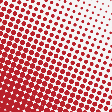
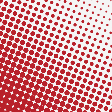
Keep dots intact and simplify pattern controls

diff --git a/test/studio-panel.test.js b/test/studio-panel.test.js
@@ -612,7 +612,7 @@ test("phone tabs keep one group visible and preserve controls across desktop res
   const folder = (name) => document.getElementById(`studio-section-${name}`).closest('.studio-folder');
   const panel = document.getElementById('dialPanelRoot');
   const actions = document.querySelector('.rail-actions');
-  const slider = folder('layout').querySelector('[role="slider"]');
+  const slider = folder('pattern').querySelector('[role="slider"]');
   assert.equal(nav.hidden, false);
   assert.equal(tabs[0].textContent, "Image");
   assert.equal(nav.style.getPropertyValue('--segment-index'), '0');
@@ -624,14 +624,14 @@ test("phone tabs keep one group visible and preserve controls across desktop res
   assert.equal(actions.hidden, true);
   tabs[1].click();
   assert.equal(folder('source').hidden, true);
-  for (const name of ['presets', 'layout', 'tone', 'advanced']) assert.equal(folder(name).hidden, false);
+  for (const name of ['presets', 'pattern', 'tone', 'advanced']) assert.equal(folder(name).hidden, false);
   const history = folder('presets').querySelector('[aria-label="Edit history"]');
   assert.ok(history);
   assert.equal(history.hidden, false);
   assert.equal(history.closest('[hidden]'), null);
   assert.ok(history.querySelector('[aria-label="Undo"]'));
   assert.ok(history.querySelector('[aria-label="Redo"]'));
-  for (const name of ['layout', 'tone', 'colors', 'advanced']) {
+  for (const name of ['pattern', 'tone', 'colors', 'advanced']) {
     const group = folder(name);
     const trigger = group.querySelector('button.dialkit-folder-header-top');
     const heading = group.querySelector('h2.studio-folder-static-heading');
@@ -654,16 +654,16 @@ test("phone tabs keep one group visible and preserve controls across desktop res
   assert.equal(nav.hidden, true);
   assert.equal(panel.hidden, false);
   assert.equal(actions.hidden, false);
-  for (const name of ['source', 'presets', 'layout', 'tone', 'colors', 'advanced']) assert.equal(folder(name).hidden, false);
-  assert.equal(folder('layout').dataset.phoneFlat, 'false');
-  assert.equal(folder('layout').querySelector('button.dialkit-folder-header-top').hidden, false);
-  assert.equal(folder('layout').querySelector('h2.studio-folder-static-heading').hidden, true);
-  assert.equal(folder('layout').querySelector('button.dialkit-folder-header-top').getAttribute('aria-expanded'), 'true');
+  for (const name of ['source', 'presets', 'pattern', 'tone', 'colors', 'advanced']) assert.equal(folder(name).hidden, false);
+  assert.equal(folder('pattern').dataset.phoneFlat, 'false');
+  assert.equal(folder('pattern').querySelector('button.dialkit-folder-header-top').hidden, false);
+  assert.equal(folder('pattern').querySelector('h2.studio-folder-static-heading').hidden, true);
+  assert.equal(folder('pattern').querySelector('button.dialkit-folder-header-top').getAttribute('aria-expanded'), 'true');
   browser.happyDOM.setWindowSize({ width: 390, height: 844 });
   assert.equal(tabs[3].getAttribute('aria-pressed'), 'true');
   assert.equal(nav.style.getPropertyValue('--segment-index'), '3');
   tabs[1].click();
-  assert.equal(folder('layout').querySelector('[role="slider"]'), slider);
+  assert.equal(folder('pattern').querySelector('[role="slider"]'), slider);
   assert.equal(state.settings.cellSize, 12);
 });
 
@@ -811,18 +811,18 @@ test('iPad sidebar tabs separate editing from export and preserve controls acros
   const panel = document.getElementById('dialPanelRoot');
   const actions = document.querySelector('.rail-actions');
   const folder = (name) => document.getElementById(`studio-section-${name}`).closest('.studio-folder');
-  const slider = folder('layout').querySelector('[role="slider"]');
+  const slider = folder('pattern').querySelector('[role="slider"]');
   assert.equal(tabs.hidden, false);
   assert.equal(folder('source').hidden, false);
   assert.equal(actions.hidden, true);
   tabButtons[1].click();
   assert.equal(folder('source').hidden, true);
-  assert.equal(folder('layout').hidden, false);
+  assert.equal(folder('pattern').hidden, false);
   assert.equal(folder('presets').hidden, false);
   panel.scrollTop = 140;
   tabButtons[2].click();
   assert.equal(folder('colors').hidden, false);
-  assert.equal(folder('layout').hidden, true);
+  assert.equal(folder('pattern').hidden, true);
   tabButtons[3].click();
   assert.equal(panel.hidden, true);
   assert.equal(actions.hidden, false);
@@ -831,13 +831,13 @@ test('iPad sidebar tabs separate editing from export and preserve controls acros
   assert.equal(actions.hidden, false);
   tabButtons[1].click();
   assert.equal(panel.scrollTop, 140);
-  assert.equal(folder('layout').querySelector('[role="slider"]'), slider);
+  assert.equal(folder('pattern').querySelector('[role="slider"]'), slider);
   touch.matches = false;
   touch.dispatchEvent(new browser.Event('change'));
   assert.equal(tabs.hidden, true);
   assert.equal(panel.hidden, false);
   assert.equal(actions.hidden, false);
-  for (const name of ['source', 'presets', 'layout', 'tone', 'colors', 'advanced']) assert.equal(folder(name).hidden, false);
+  for (const name of ['source', 'presets', 'pattern', 'tone', 'colors', 'advanced']) assert.equal(folder(name).hidden, false);
 });
 
 test('phone tabs restore independent scroll positions and ignore active-tab taps', () => {
@@ -1254,13 +1254,16 @@ test('preset menu shows four rows and a next-row peek within the viewport', asyn
   } finally { cleanup(); popup.remove(); }
 });
 
-test('Pattern exposes Organic, Dots, Diamonds and Lines with the right selection', () => {
+test('Pattern exposes Organic, Dots and Lines with the right selection', () => {
   state.settings.dotShape = 'round';
   state.settings.screenStyle = 'paper';
   emit();
   const pattern = document.querySelector('[role="radiogroup"][aria-label="Pattern"]');
+  const section = pattern.closest('.studio-folder');
+  assert.equal(section.querySelector('.dialkit-folder-title').textContent, 'Pattern');
+  assert.equal(pattern.parentElement.querySelector('.segmented-field-label'), null);
   assert.deepEqual([...pattern.querySelectorAll('button')].map(button => button.textContent),
-    ['Organic', 'Dots', 'Diamonds', 'Lines']);
+    ['Organic', 'Dots', 'Lines']);
   assert.equal(pattern.querySelector('[aria-checked="true"]').textContent, 'Organic');
   pattern.querySelector('[data-value="round"]').click();
   assert.deepEqual(settingsChanged.at(-1), ['pattern', 'round']);

diff --git a/test/halftone-renderer.test.js b/test/halftone-renderer.test.js
@@ -5,7 +5,7 @@ import { renderHalftoneSync, renderHalftoneAsync } from '../src/halftone-rendere
 
 const settings = { cellSize: 12, angle: 0, contrast: 1, gamma: 1, toneCurve: 1, ink: '#000', paper: '#fff' };
 
-test('halftone screen reaches solid shadows, clean highlights, and preserves detail within cells', () => {
+test('diamond screen preserves detail within cells while transparent pixels stay transparent', () => {
   const width = 48, height = 48;
   const data = new Uint8ClampedArray(width * height * 4);
   // One-pixel alternating lines would be lost by averaging an entire cell.
@@ -14,7 +14,7 @@ test('halftone screen reaches solid shadows, clean highlights, and preserves det
     data[i + 3] = 255;
   }
   const ctx = createCanvas(width, height).getContext('2d');
-  renderHalftoneSync(ctx, data, width, height, settings);
+  renderHalftoneSync(ctx, data, width, height, { ...settings, dotShape: 'diamond' });
   assert.deepEqual(ctx.getImageData(0, 0, width, height).data, data);
   data.fill(0);
   renderHalftoneSync(ctx, data, width, height, { ...settings, paper: 'transparent' });
@@ -36,7 +36,8 @@ test('halftone fallback matches worker output and can cancel', async () => {
   assert.deepEqual(await renderHalftoneAsync(b, data, width, height, settings, {
     onProgress(value) { progress.push(value); cancel = true; }, shouldCancel: () => cancel
   }), { cancelled: true });
-  assert.deepEqual(progress, [0.5], 'cancellation interrupts rendering between chunks');
+  assert.equal(progress.length, 1, 'cancellation interrupts cell sampling at the first chunk');
+  assert.ok(progress[0] > 0 && progress[0] < 1);
 });
 
 test('every dot shape tracks tone from clean paper to solid ink, and invert flips it', () => {
@@ -92,8 +93,8 @@ test('source transparency masks both ink and paper, preserving soft edges', () =
   for (const paper of ['#ffffff', '#15358a', '#f3dfbc']) {
     const ctx = createCanvas(width, height).getContext('2d');
     const reference = createCanvas(width, height).getContext('2d');
-    renderHalftoneSync(ctx, source, width, height, { ...settings, paper });
-    renderHalftoneSync(reference, opaque, width, height, { ...settings, paper });
+    renderHalftoneSync(ctx, source, width, height, { ...settings, paper, dotShape: 'diamond' });
+    renderHalftoneSync(reference, opaque, width, height, { ...settings, paper, dotShape: 'diamond' });
     const actual = ctx.getImageData(0, 0, width, height).data;
     const expected = reference.getImageData(0, 0, width, height).data;
     for (let i = 0; i < source.length; i += 4) {
@@ -153,5 +154,43 @@ test('Paper screen responds to tone, angle, invert and cell size controls', () =
   for (const extra of [{ contrast: 1.8 }, { gamma: 1.6 }, { toneCurve: 1.4 },
     { angle: .4 }, { invert: true }, { cellSize: 6 }, { dotShape: 'square' }, { screenStyle: 'classic' }]) {
     assert.notDeepEqual(render(extra), original, JSON.stringify(extra));
+  }
+});
+
+
+test('Dots keep round marks on fine stripes instead of cutting the marks apart', () => {
+  const width = 72, height = 72;
+  const stripes = new Uint8ClampedArray(width * height * 4);
+  const flat = new Uint8ClampedArray(width * height * 4);
+  for (let i = 0; i < stripes.length; i += 4) {
+    const value = (i / 4 % width) % 2 ? 192 : 64;
+    stripes[i] = stripes[i + 1] = stripes[i + 2] = value;
+    flat[i] = flat[i + 1] = flat[i + 2] = 128;
+    stripes[i + 3] = flat[i + 3] = 255;
+  }
+  const a = createCanvas(width, height).getContext('2d');
+  const b = createCanvas(width, height).getContext('2d');
+  renderHalftoneSync(a, stripes, width, height, settings);
+  renderHalftoneSync(b, flat, width, height, settings);
+  assert.deepEqual(a.getImageData(0, 0, width, height).data, b.getImageData(0, 0, width, height).data,
+    'equal average brightness produces intact, identical round dots');
+});
+
+test('Dots ignore invisible RGB when sampling and retain source alpha at rotated edges', () => {
+  const width = 96, height = 96;
+  const source = new Uint8ClampedArray(width * height * 4).fill(96);
+  for (let i = 3; i < source.length; i += 4) source[i] = (i / 4 | 0) % 4 * 85;
+  const other = source.slice();
+  for (let i = 0; i < source.length; i += 4) {
+    if (source[i + 3] === 0) other[i] = other[i + 1] = other[i + 2] = 255;
+  }
+  const a = createCanvas(width, height).getContext('2d');
+  const b = createCanvas(width, height).getContext('2d');
+  for (const angle of [-1.1, 0, .384, 1.1]) {
+    renderHalftoneSync(a, source, width, height, { ...settings, angle });
+    renderHalftoneSync(b, other, width, height, { ...settings, angle });
+    const pixels = a.getImageData(0, 0, width, height).data;
+    assert.deepEqual(pixels, b.getImageData(0, 0, width, height).data);
+    for (let i = 3; i < source.length; i += 4) assert.equal(pixels[i], source[i]);
   }
 });

diff --git a/src/halftone-renderer.js b/src/halftone-renderer.js
@@ -1,3 +1,4 @@
+import { sampleDotCellTones } from './dot-cell-tones.js';
 import { renderPaperRows } from './paper-screen.js';
 import { toneLuma } from '../renderer-core.js';
 
@@ -60,6 +61,8 @@ function* renderRows(ctx, source, width, height, settings) {
   const out = image.data;
   const cell = Math.max(1, settings.cellSize);
   const cos = Math.cos(settings.angle), sin = Math.sin(settings.angle);
+  const sampledDots = !settings.dotShape || settings.dotShape === 'round';
+  const cells = sampledDots ? yield* sampleDotCellTones(source, width, height, cell, cos, sin, settings) : null;
   const softness = Math.min(0.15, 0.5 / cell);
   const coverage = COVERAGE[settings.dotShape] ?? COVERAGE.round;
   const invert = settings.invert === true;
@@ -96,9 +99,14 @@ function* renderRows(ctx, source, width, height, settings) {
       }
       const ox = gx - cx, oy = gy - cy;
       const threshold = coverage(ox - jitterX, oy - jitterY);
-      const luma = (source[i] * 0.299 + source[i + 1] * 0.587 + source[i + 2] * 0.114) / 255;
-      const tone = toneLuma(luma, settings.contrast, settings.gamma);
-      const darkness = Math.pow(invert ? tone : 1 - tone, settings.toneCurve);
+      let darkness;
+      if (cells) {
+        darkness = cells.tones[(cy + cells.offsetY) * cells.stride + cx + cells.offsetX];
+      } else {
+        const luma = (source[i] * 0.299 + source[i + 1] * 0.587 + source[i + 2] * 0.114) / 255;
+        const tone = toneLuma(luma, settings.contrast, settings.gamma);
+        darkness = Math.pow(invert ? tone : 1 - tone, settings.toneCurve);
+      }
       let mask = Math.max(0, Math.min(1, (darkness - threshold + softness) / (2 * softness)));
       mask = darkness === 0 ? 0 : darkness === 1 ? 1 : mask * mask * (3 - 2 * mask);
       if (micro && darkness >= 0.003 && darkness < 0.6) {
@@ -120,7 +128,7 @@ function* renderRows(ctx, source, width, height, settings) {
       }
       out[i + 3] = total * source[i + 3];
     }
-    if (y % 24 === 23) yield (y + 1) / height;
+    if (y % 24 === 23) yield cells ? .25 + .75 * (y + 1) / height : (y + 1) / height;
   }
   ctx.putImageData(image, 0, 0);
 }

diff --git a/src/studio-panel.js b/src/studio-panel.js
@@ -14,7 +14,7 @@ const titleCase = (value) => value[0].toUpperCase() + value.slice(1);
 const PROFILE_OPTIONS = ["draft", "high", "ultra", "print"].map((value) => ({ value, label: titleCase(value) }));
 const PATTERN_OPTIONS = [
   { value: 'organic', label: 'Organic' }, { value: 'round', label: 'Dots' },
-  { value: 'diamond', label: 'Diamonds' }, { value: 'line', label: 'Lines' }
+  { value: 'line', label: 'Lines' }
 ];
 const INVERT_OPTIONS = [{ value: false, label: "Off" }, { value: true, label: "On" }];
 
@@ -425,16 +425,16 @@ export function mountStudioPanel(studio) {
       control.update({ ...props, value: previous });
     });
   }
-  const layoutFolder = mountStudioFolder(folders, "Layout");
+  const layoutFolder = mountStudioFolder(folders, "Pattern");
   const layout = layoutFolder.body;
-  function segmentedSetting(host, key, label, options, readValue = () => state.settings[key]) {
+  function segmentedSetting(host, key, label, options, readValue = () => state.settings[key], showLabel = true) {
     const field = element("div", "segmented-field");
-    field.append(element("span", "segmented-field-label", label));
+    if (showLabel) field.append(element("span", "segmented-field-label", label));
     const update = mountSegments(field, options, label, options.length, (value) => studio.setSetting(key, value));
     host.append(field);
     bindings.push(() => update(readValue()));
   }
-  segmentedSetting(layout, "pattern", "Pattern", PATTERN_OPTIONS, () => selectedPattern(state.settings));
+  segmentedSetting(layout, "pattern", "Pattern", PATTERN_OPTIONS, () => selectedPattern(state.settings), false);
   slider(layout, "cellSize", "Cell size", 3, 12, 1);
   slider(layout, "screenAngle", "Screen angle", -75, 75, 1, "°");
   const toneFolder = mountStudioFolder(folders, "Tone");

diff --git a/src/dot-cell-tones.js b/src/dot-cell-tones.js
@@ -1,0 +1,33 @@
+import { toneLuma } from '../renderer-core.js';
+
+// Average the source inside each rotated screen cell. Sampling a single pixel
+// can alias fine fabric into an unrelated pattern; averaging stabilizes the
+// tone while keeping every dot circular. Alpha weights exclude invisible RGB.
+export function* sampleDotCellTones(source, width, height, cell, cos, sin, settings) {
+  const offsetX = Math.ceil((width * Math.abs(cos) + height * Math.abs(sin)) / (2 * cell)) + 1;
+  const offsetY = Math.ceil((width * Math.abs(sin) + height * Math.abs(cos)) / (2 * cell)) + 1;
+  const stride = offsetX * 2 + 1;
+  const size = stride * (offsetY * 2 + 1);
+  const tones = new Float32Array(size);
+  const weights = new Float32Array(size);
+  for (let y = 0; y < height; y++) {
+    const py = y + .5 - height / 2;
+    for (let x = 0; x < width; x++) {
+      const px = x + .5 - width / 2;
+      const cx = Math.round((px * cos + py * sin) / cell);
+      const cy = Math.round((-px * sin + py * cos) / cell);
+      const index = (cy + offsetY) * stride + cx + offsetX;
+      const i = (y * width + x) * 4;
+      const weight = source[i + 3] / 255;
+      tones[index] += weight * (source[i] * .299 + source[i + 1] * .587 + source[i + 2] * .114) / 255;
+      weights[index] += weight;
+    }
+    if (y % 24 === 23) yield .25 * (y + 1) / height;
+  }
+  for (let index = 0; index < size; index++) {
+    const luma = weights[index] ? tones[index] / weights[index] : 1;
+    const tone = toneLuma(Math.max(0, Math.min(1, luma)), settings.contrast, settings.gamma);
+    tones[index] = Math.pow(settings.invert ? tone : 1 - tone, settings.toneCurve);
+  }
+  return { tones, offsetX, offsetY, stride };
+}

diff --git a/src/screen-settings.js b/src/screen-settings.js
@@ -5,7 +5,7 @@ export const SCREEN_STYLES = ['classic', 'paper'];
 export const SCREEN_DEFAULTS = { dotShape: 'round', invert: false, screenStyle: 'classic' };
 
 export function normalizeScreenValue(key, value) {
-  if (key === 'dotShape') return value === 'square' ? 'round' : DOT_SHAPES.includes(value) ? value : SCREEN_DEFAULTS.dotShape;
+  if (key === 'dotShape') return ['square', 'diamond'].includes(value) ? 'round' : DOT_SHAPES.includes(value) ? value : SCREEN_DEFAULTS.dotShape;
   if (key === 'screenStyle') return SCREEN_STYLES.includes(value) ? value : SCREEN_DEFAULTS.screenStyle;
   if (key === 'invert') return value === true || value === 'true';
   return null;
@@ -13,6 +13,11 @@ export function normalizeScreenValue(key, value) {
 
 // Preserve recipes saved during the first local Paper trial.
 export function screenValue(preset, key) {
+  // Retired shapes become Dots, including restored sessions and imported recipes.
+  if (['square', 'diamond'].includes(preset.dotShape)) {
+    if (key === 'dotShape') return 'round';
+    if (key === 'screenStyle') return 'classic';
+  }
   if (preset.dotShape === 'gooey') {
     if (key === 'dotShape') return 'round';
     if (key === 'screenStyle') return 'paper';
@@ -22,7 +27,7 @@ export function screenValue(preset, key) {
 
 export function patternSettings(pattern) {
   if (pattern === 'organic') return { dotShape: 'round', screenStyle: 'paper' };
-  if (['round', 'diamond', 'line'].includes(pattern)) return { dotShape: pattern, screenStyle: 'classic' };
+  if (['round', 'line'].includes(pattern)) return { dotShape: pattern, screenStyle: 'classic' };
   return null;
 }
 

diff --git a/test/preset-transfer.test.js b/test/preset-transfer.test.js
@@ -17,7 +17,7 @@ test('preset files round-trip only settings, never image bytes or thumbnails', (
 });
 
 test('dot shape, invert, and texture round-trip, and older files default them', () => {
-  const styled = { ...settings, dotShape: 'diamond', invert: true, jitter: 18, microDot: 24, seed: 42 };
+  const styled = { ...settings, dotShape: 'line', invert: true, jitter: 18, microDot: 24, seed: 42 };
   const parsed = parsePreset(serializePreset('Styled', styled).text, isColor);
   for (const key of ['dotShape', 'invert', 'jitter', 'microDot', 'seed']) assert.equal(parsed.settings[key], styled[key]);
   const legacy = JSON.parse(serializePreset('Old', settings).text);
@@ -58,4 +58,15 @@ test('Paper merged-dot treatment survives preset export and import', () => {
   const legacy = parsePreset(serializePreset('Local trial', { ...settings, dotShape: 'gooey' }).text, isColor).settings;
   assert.equal(legacy.dotShape, 'round');
   assert.equal(legacy.screenStyle, 'paper');
+});
+
+
+test('retired diamond and square recipes import as Dots with other settings intact', () => {
+  for (const dotShape of ['diamond', 'square']) {
+    const original = { ...settings, dotShape, screenStyle: 'paper', jitter: 18, microDot: 24, seed: 42 };
+    const restored = parsePreset(serializePreset('Older print', original).text, isColor).settings;
+    assert.equal(restored.dotShape, 'round');
+    assert.equal(restored.screenStyle, 'classic');
+    for (const key of [...Object.keys(settings), 'jitter', 'microDot', 'seed']) assert.equal(restored[key], original[key]);
+  }
 });

diff --git a/test/editor-session-integration.test.js b/test/editor-session-integration.test.js
@@ -437,7 +437,7 @@ test('pattern choices switch both rendering settings atomically and undo restore
     studio.undo();
     assert.equal(studio.getState().settings.screenStyle, 'paper');
     assert.equal(studio.getState().presetModified, false);
-    for (const pattern of ['diamond', 'line', 'organic']) {
+    for (const pattern of ['round', 'line', 'organic']) {
       studio.setSetting('pattern', pattern);
       assert.equal(studio.getState().settings.dotShape, pattern === 'organic' ? 'round' : pattern);
       assert.equal(studio.getState().settings.screenStyle, pattern === 'organic' ? 'paper' : 'classic');

diff --git a/script.js b/script.js
@@ -272,7 +272,7 @@ const builtInPresets = {
     inkColor: "#b8202a",
     paperColor: "#f5f5f5"
   },
-  // A coarser diagonal screen of irregular diamonds and grain on warm paper.
+  // A coarser diagonal screen of textured dots and grain on warm paper.
   orange: {
     quality: "high",
     cellSize: 7,
@@ -284,7 +284,7 @@ const builtInPresets = {
     microDot: 24,
     jitter: 18,
     seed: 42,
-    dotShape: "diamond",
+    dotShape: "round",
     inkColor: "#ad551e",
     paperColor: "#f3dfbc",
     grainStrength: 14

diff --git a/src/preset-preview.js b/src/preset-preview.js
@@ -1,7 +1,7 @@
 import { renderHalftoneSync } from './halftone-renderer.js';
 import { BloomPass } from '../bloom-pass.js';
 
-export const PRESET_THUMBNAIL_VERSION = 4;
+export const PRESET_THUMBNAIL_VERSION = 5;
 const cache = new WeakMap();
 
 // Use the same close-up tonal ramp for built-in, saved, and imported presets.
